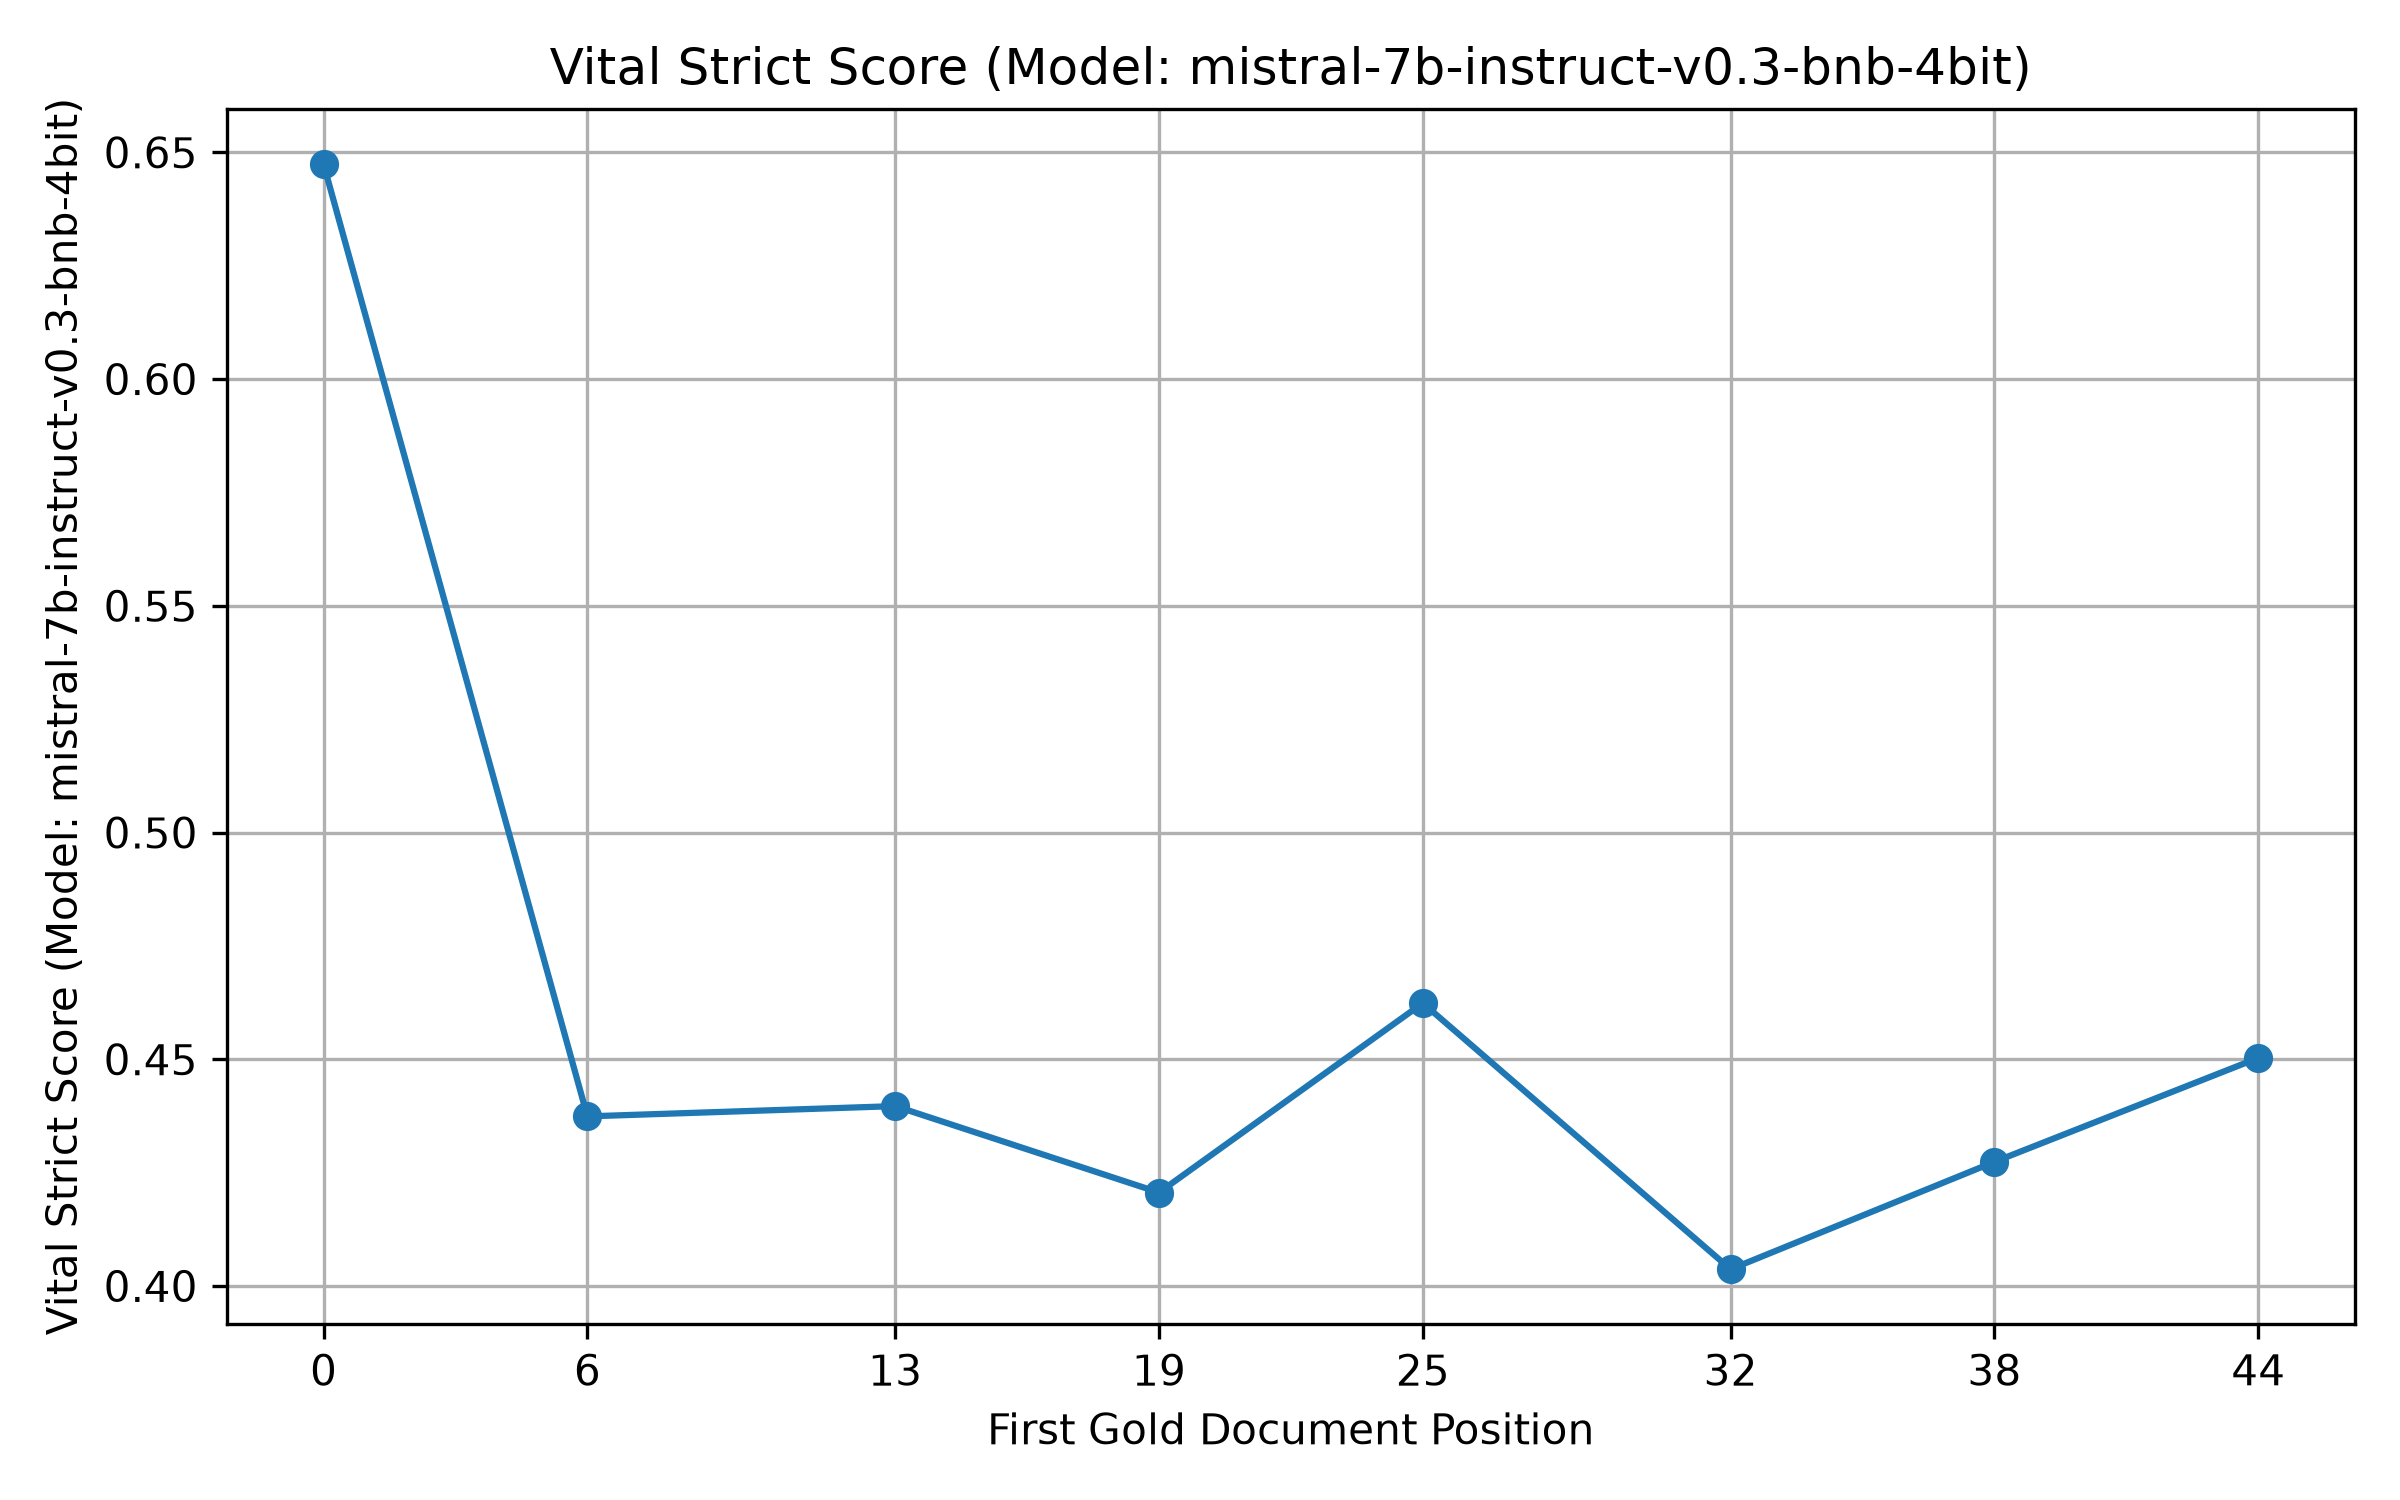
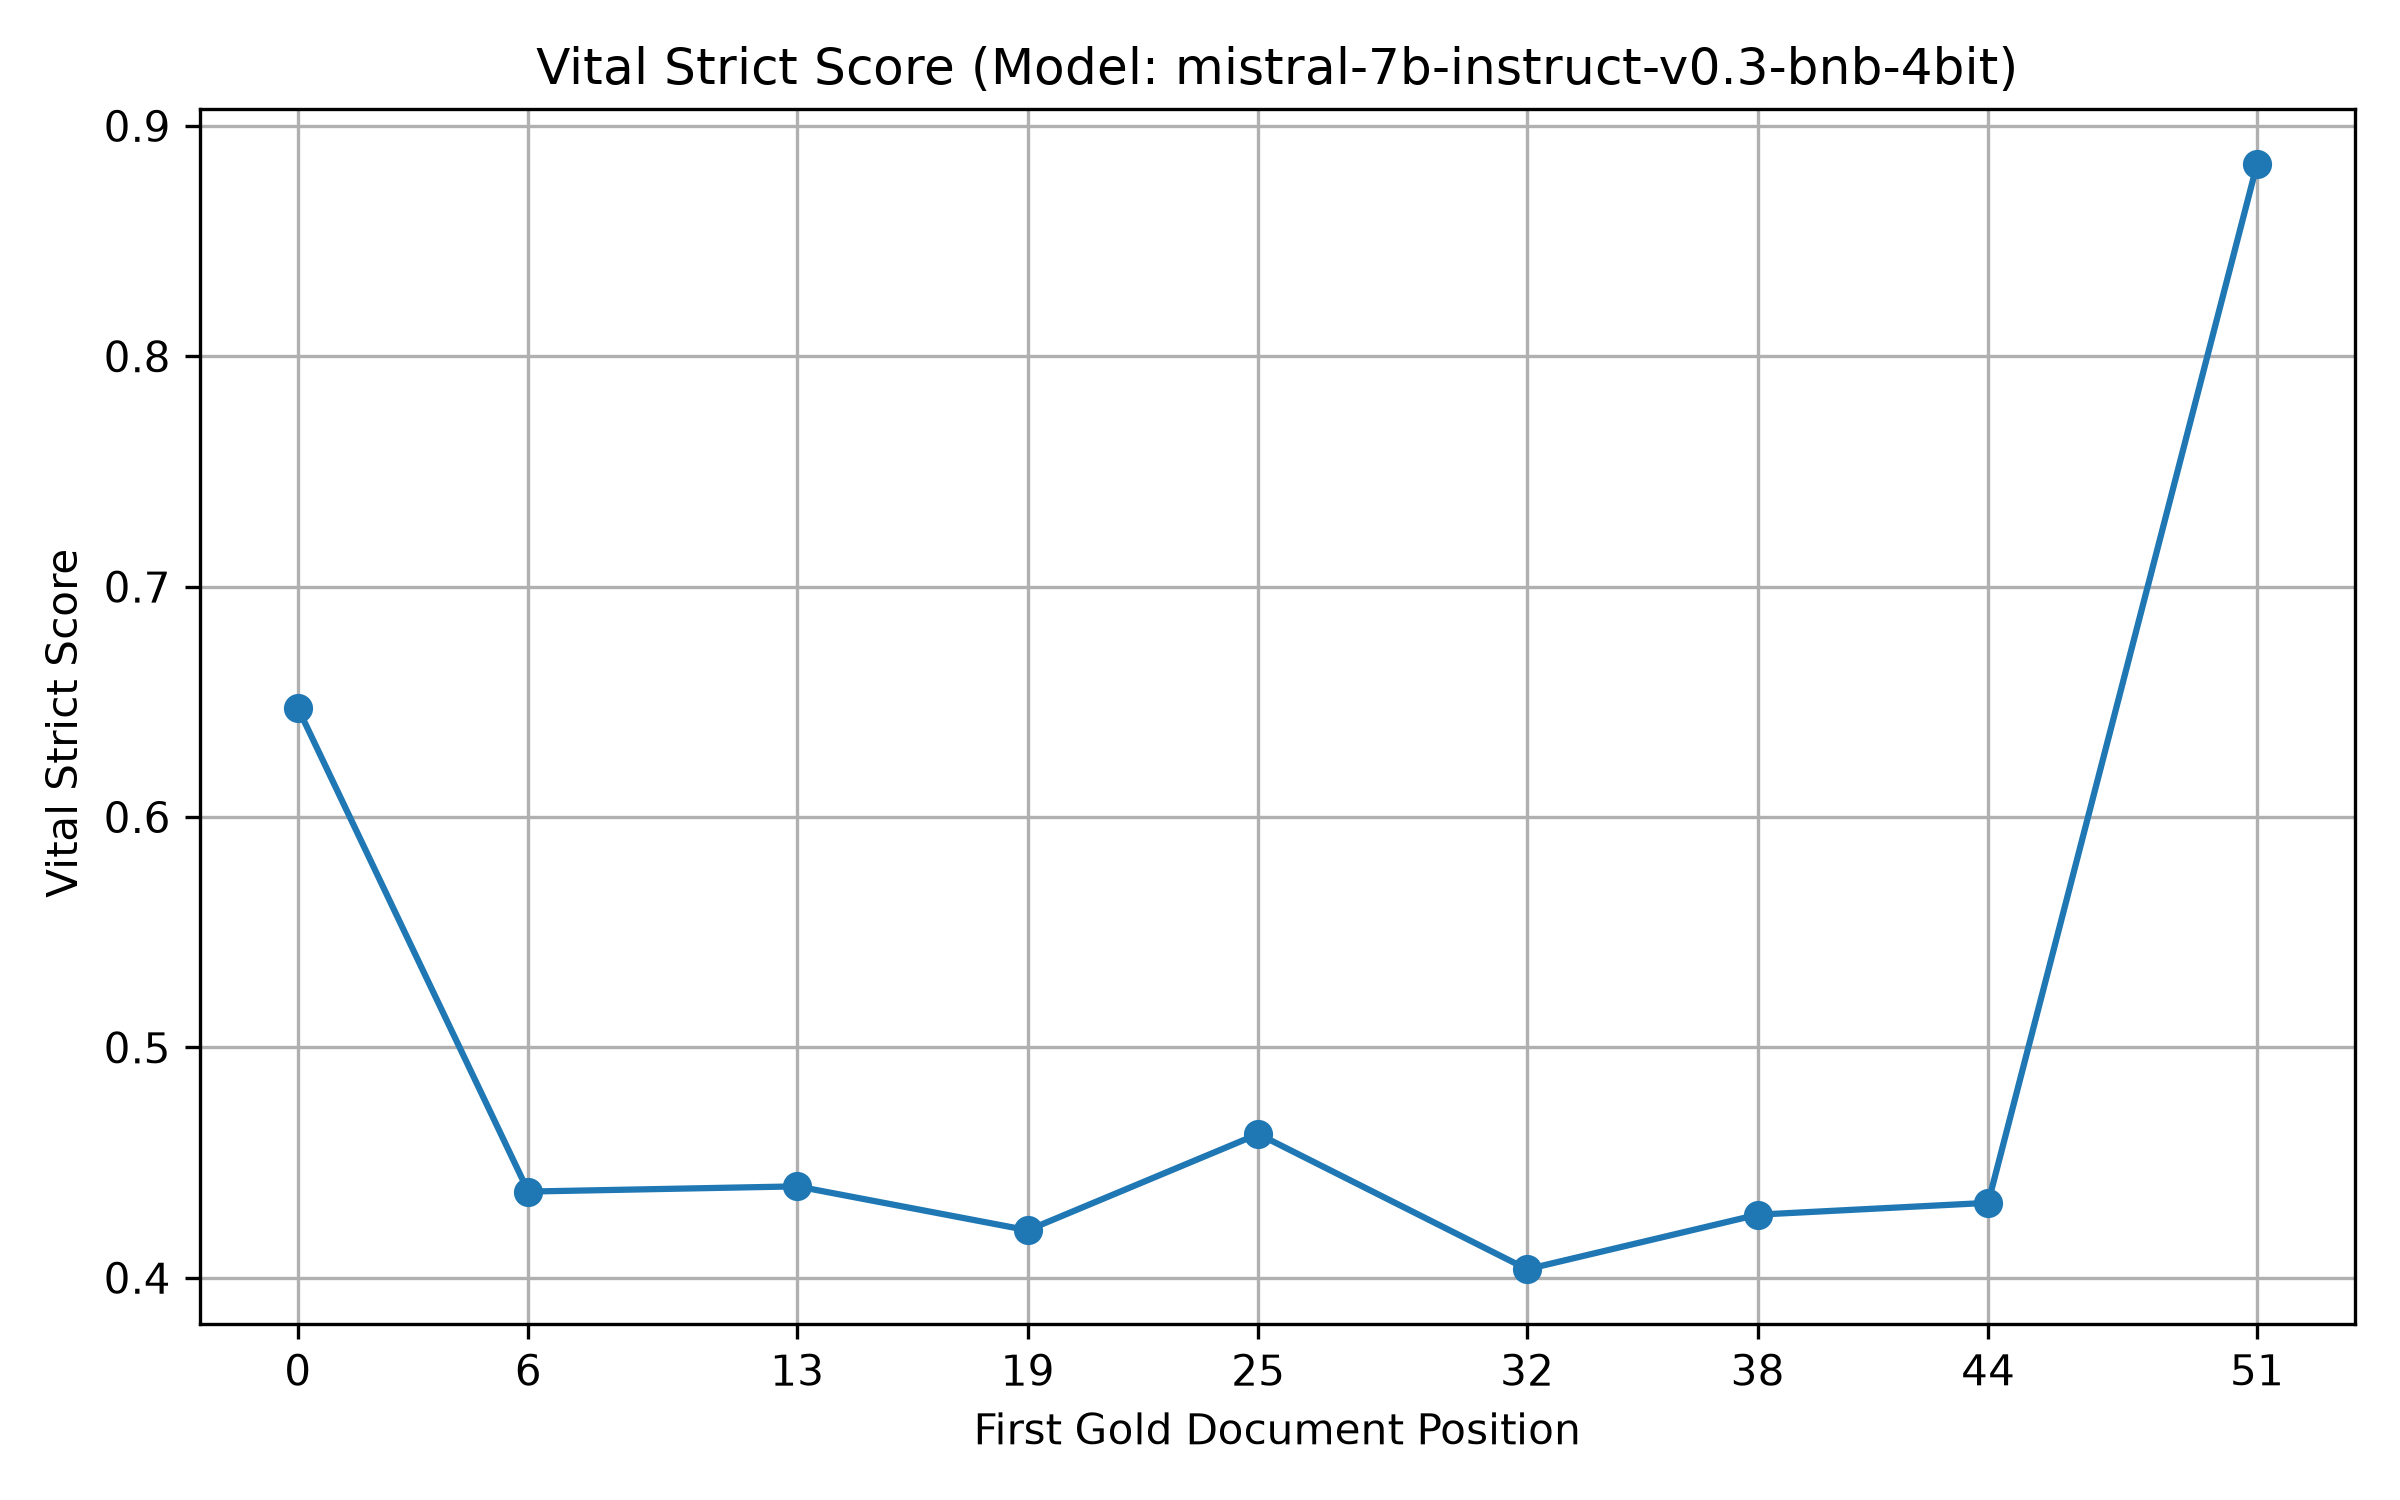
starting corrections

diff --git a/TREC-RAG_2024_Analysis/Discriminator_and_Noise/Discriminator/Correctness_Analysis/main1.py b/TREC-RAG_2024_Analysis/Discriminator_and_Noise/Discriminator/Correctness_Analysis/main1.py
@@ -1,0 +1,120 @@
+from transformers import AutoTokenizer, AutoModelForCausalLM
+import json
+import gzip
+import torch
+import re
+import os
+from tqdm import tqdm
+
+import warnings
+warnings.filterwarnings(
+    "ignore",
+    category=FutureWarning,
+    module="bitsandbytes"
+)
+
+import sys
+sys.path.insert(0,r'/home/irlab/sagnik/TREC-RAG_2024_Analysis/Discriminator_and_Noise/Discriminator/Correctness_Analysis/Generator')
+sys.path.insert(0,r'/home/irlab/sagnik/TREC-RAG_2024_Analysis/Discriminator_and_Noise/Discriminator/Correctness_Analysis/NuggetizeLLM')
+sys.path.insert(0,r'/home/irlab/sagnik/TREC-RAG_2024_Analysis/Discriminator_and_Noise/Discriminator/Correctness_Analysis/NuggetizeScoreLLM')
+sys.path.insert(0,r'/home/irlab/sagnik/TREC-RAG_2024_Analysis/Discriminator_and_Noise/Discriminator/Correctness_Analysis/NuggetizeAssignerLLM')
+sys.path.insert(0,r'/home/irlab/sagnik/TREC-RAG_2024_Analysis/Discriminator_and_Noise/Discriminator/Correctness_Analysis/Evaluation')
+
+from generator import llm_output_generator
+from NuggetizeLLM import NuggetizeLLM
+from NuggetizeScoreLLM import NuggetizeScoreLLM
+from NuggetizeAssignerLLM import NuggetizeAssignerLLM
+from evaluator import all_score, all_strict_score, vital_score, vital_strict_score, weighted_score, weighted_strict_score
+
+#####################
+with open(r'/home/irlab/sagnik/API_KEY','r') as f:
+    hf_token=f.read()
+
+retr_set_path=r'/home/irlab/sagnik/TREC-RAG_2024_Analysis/Discriminator_and_Noise/Discriminator/Data/generator_input_data_gold_fixed_3.jsonl'
+
+model_name="unsloth/mistral-7b-instruct-v0.3-bnb-4bit"
+model=AutoModelForCausalLM.from_pretrained(model_name,token=hf_token,attn_implementation='flash_attention_2')
+tokenizer=AutoTokenizer.from_pretrained(model_name,token=hf_token)
+
+length_set=[]
+
+with open(retr_set_path,'r') as f:
+    for i in f:
+        temp=json.loads(i)
+        length_set.append(temp)  
+
+
+context_length=len(length_set[0]['doc_discriminator'])+len(length_set[0]['doc_gold'])
+corpus_length=len(length_set)
+
+
+# ########################
+
+with open(r'/home/irlab/sagnik/TREC-RAG_2024_Analysis/Discriminator_and_Noise/Discriminator/Correctness_Analysis/misc/itr_index.json','r') as f:
+    itr=json.load(f)
+
+unified_itr=[]
+with open(r'/home/irlab/sagnik/TREC-RAG_2024_Analysis/Discriminator_and_Noise/Discriminator/Correctness_Analysis/misc/pipeline_error_log_mistral-7b-instruct-v0.3-bnb-4bit.jsonl'):
+    for i in f:
+        unified_itr(json.loads(i))
+
+unified_itr1
+for i in unified_itr:
+    unified_itr1_temp=[i['first_gold_doc_pos'],i['corpus_position']]
+    unified_itr1.append(unified_itr1_temp)
+
+# test_indices=[0]
+
+for i,j in tqdm(unified_itr1):
+
+    try:
+        output_text, query=llm_output_generator(i,j,model,tokenizer,retr_set_path)
+        output1=output_text
+
+        nugget_dict=NuggetizeLLM(j,model,tokenizer,retr_set_path)
+        output2=nugget_dict['NuggetizeLLM_output']
+
+        score_list, nugget_list, query1=NuggetizeScoreLLM(model,tokenizer,nugget_dict)
+        output3=score_list
+
+        assigner_list, nugget_list1, query2=NuggetizeAssignerLLM(model,tokenizer,nugget_dict,output_text)
+        output4=assigner_list
+
+    
+        ######## Eval
+
+        all_score_out=all_score(assigner_list)
+        all_strict_score_out=all_strict_score(assigner_list)
+
+        vital_score_out=vital_score(assigner_list,score_list)
+        vital_strict_score_out=vital_strict_score(assigner_list,score_list)
+
+        weighted_score_out=weighted_score(assigner_list,score_list)
+        weighted_strict_score_out=weighted_strict_score(assigner_list,score_list)
+
+        output5={'all_score':all_score_out,'all_strict_score':all_strict_score_out,'vital_score':vital_score_out,'vital_strict_score':vital_strict_score_out,'weighted_score':weighted_score_out,'weighted_strict_score':weighted_strict_score_out}
+
+        final_output={'model':model_name,'first_gold_doc_pos':i,'corpus_position':j,'query':query,'generator_output':output1,'nuggetizellm_output':output2,'nuggetizescorellm_output':output3,'nuggetizeassignerllm_output':output4,'scores':output5}
+
+
+        with open(fr"/home/irlab/sagnik/TREC-RAG_2024_Analysis/Discriminator_and_Noise/Discriminator/Correctness_Analysis/misc/pipeline_output_{model_name[model_name.index('/')+1:]}.jsonl", "a") as f:
+            f.write(json.dumps(final_output) + "\n")
+            f.flush()
+            os.fsync(f.fileno())
+
+
+    except KeyboardInterrupt:
+        
+        interrupted=True
+        raise
+        
+    except Exception as e:
+
+        error_data={'first_gold_doc_pos':i,'corpus_position':j,'error':str(e)}
+
+        with open(fr"/home/irlab/sagnik/TREC-RAG_2024_Analysis/Discriminator_and_Noise/Discriminator/Correctness_Analysis/misc/pipeline_error_log_{model_name[model_name.index('/')+1:]}_2nd.jsonl", "a") as f:
+            f.write(json.dumps(error_data) + "\n")
+            f.flush()
+            os.fsync(f.fileno())
+
+

diff --git a/TREC-RAG_2024_Analysis/Discriminator_and_Noise/Noise/Correctness_Analysis/main1.py b/TREC-RAG_2024_Analysis/Discriminator_and_Noise/Noise/Correctness_Analysis/main1.py
@@ -1,0 +1,120 @@
+from transformers import AutoTokenizer, AutoModelForCausalLM
+import json
+import gzip
+import torch
+import re
+import os
+from tqdm import tqdm
+
+import warnings
+warnings.filterwarnings(
+    "ignore",
+    category=FutureWarning,
+    module="bitsandbytes"
+)
+
+import sys
+sys.path.insert(0,r'/home/irlab/sagnik/TREC-RAG_2024_Analysis/Discriminator_and_Noise/Noise/Correctness_Analysis/Generator')
+sys.path.insert(0,r'/home/irlab/sagnik/TREC-RAG_2024_Analysis/Discriminator_and_Noise/Noise/Correctness_Analysis/NuggetizeLLM')
+sys.path.insert(0,r'/home/irlab/sagnik/TREC-RAG_2024_Analysis/Discriminator_and_Noise/Noise/Correctness_Analysis/NuggetizeScoreLLM')
+sys.path.insert(0,r'/home/irlab/sagnik/TREC-RAG_2024_Analysis/Discriminator_and_Noise/Noise/Correctness_Analysis/NuggetizeAssignerLLM')
+sys.path.insert(0,r'/home/irlab/sagnik/TREC-RAG_2024_Analysis/Discriminator_and_Noise/Noise/Correctness_Analysis/Evaluation')
+
+from generator import llm_output_generator
+from NuggetizeLLM import NuggetizeLLM
+from NuggetizeScoreLLM import NuggetizeScoreLLM
+from NuggetizeAssignerLLM import NuggetizeAssignerLLM
+from evaluator import all_score, all_strict_score, vital_score, vital_strict_score, weighted_score, weighted_strict_score
+
+#####################
+with open(r'/home/irlab/sagnik/API_KEY','r') as f:
+    hf_token=f.read()
+
+retr_set_path=r'/home/irlab/sagnik/TREC-RAG_2024_Analysis/Discriminator_and_Noise/Noise/Data/generator_input_data_gold_fixed_3.jsonl'
+
+model_name="unsloth/mistral-7b-instruct-v0.3-bnb-4bit"
+model=AutoModelForCausalLM.from_pretrained(model_name,token=hf_token,attn_implementation='flash_attention_2')
+tokenizer=AutoTokenizer.from_pretrained(model_name,token=hf_token)
+
+length_set=[]
+
+with open(retr_set_path,'r') as f:
+    for i in f:
+        temp=json.loads(i)
+        length_set.append(temp)  
+
+
+context_length=len(length_set[0]['doc_discriminator'])+len(length_set[0]['doc_gold'])
+corpus_length=len(length_set)
+
+
+# ########################
+
+with open(r'/home/irlab/sagnik/TREC-RAG_2024_Analysis/Discriminator_and_Noise/Noise/Correctness_Analysis/misc/itr_index.json','r') as f:
+    itr=json.load(f)
+
+unified_itr=[]
+with open(r'/home/irlab/sagnik/TREC-RAG_2024_Analysis/Discriminator_and_Noise/Noise/Correctness_Analysis/misc/pipeline_error_log_mistral-7b-instruct-v0.3-bnb-4bit.jsonl'):
+    for i in f:
+        unified_itr(json.loads(i))
+
+unified_itr1
+for i in unified_itr:
+    unified_itr1_temp=[i['first_gold_doc_pos'],i['corpus_position']]
+    unified_itr1.append(unified_itr1_temp)
+
+# test_indices=[0]
+
+for i,j in tqdm(unified_itr1)
+
+    try:
+        output_text, query=llm_output_generator(i,j,model,tokenizer,retr_set_path)
+        output1=output_text
+
+        nugget_dict=NuggetizeLLM(j,model,tokenizer,retr_set_path)
+        output2=nugget_dict['NuggetizeLLM_output']
+
+        score_list, nugget_list, query1=NuggetizeScoreLLM(model,tokenizer,nugget_dict)
+        output3=score_list
+
+        assigner_list, nugget_list1, query2=NuggetizeAssignerLLM(model,tokenizer,nugget_dict,output_text)
+        output4=assigner_list
+
+    
+        ######## Eval
+
+        all_score_out=all_score(assigner_list)
+        all_strict_score_out=all_strict_score(assigner_list)
+
+        vital_score_out=vital_score(assigner_list,score_list)
+        vital_strict_score_out=vital_strict_score(assigner_list,score_list)
+
+        weighted_score_out=weighted_score(assigner_list,score_list)
+        weighted_strict_score_out=weighted_strict_score(assigner_list,score_list)
+
+        output5={'all_score':all_score_out,'all_strict_score':all_strict_score_out,'vital_score':vital_score_out,'vital_strict_score':vital_strict_score_out,'weighted_score':weighted_score_out,'weighted_strict_score':weighted_strict_score_out}
+
+        final_output={'model':model_name,'first_gold_doc_pos':i,'corpus_position':j,'query':query,'generator_output':output1,'nuggetizellm_output':output2,'nuggetizescorellm_output':output3,'nuggetizeassignerllm_output':output4,'scores':output5}
+
+
+        with open(fr"/home/irlab/sagnik/TREC-RAG_2024_Analysis/Discriminator_and_Noise/Noise/Correctness_Analysis/misc/pipeline_output_{model_name[model_name.index('/')+1:]}.jsonl", "a") as f:
+            f.write(json.dumps(final_output) + "\n")
+            f.flush()
+            os.fsync(f.fileno())
+
+
+    except KeyboardInterrupt:
+        
+        interrupted=True
+        raise
+        
+    except Exception as e:
+
+        error_data={'first_gold_doc_pos':i,'corpus_position':j,'error':str(e)}
+
+        with open(fr"/home/irlab/sagnik/TREC-RAG_2024_Analysis/Discriminator_and_Noise/Noise/Correctness_Analysis/misc/pipeline_error_log_{model_name[model_name.index('/')+1:]}_2nd.jsonl", "a") as f:
+            f.write(json.dumps(error_data) + "\n")
+            f.flush()
+            os.fsync(f.fileno())
+
+

diff --git a/TREC-RAG_2024_Analysis/Discriminator_and_Noise/Discriminator/Correctness_Analysis/NuggetizeLLM/NuggetizeLLM.py b/TREC-RAG_2024_Analysis/Discriminator_and_Noise/Discriminator/Correctness_Analysis/NuggetizeLLM/NuggetizeLLM.py
@@ -27,6 +27,8 @@ def split_glued_nuggets(raw):
     return parts
 
 
+
+
 def get_nugget_list(nugget_list):
 
     raw_output = nugget_list
@@ -39,6 +41,8 @@ def get_nugget_list(nugget_list):
 
     if isinstance(raw_output, str):
         return split_glued_nuggets(raw_output)
+
+
 
 def NuggetizeLLM(corpus_lookup_index,model,tokenizer,retr_set_path):
 

diff --git a/TREC-RAG_2024_Analysis/Discriminator_and_Noise/Discriminator/Correctness_Analysis/plot.py b/TREC-RAG_2024_Analysis/Discriminator_and_Noise/Discriminator/Correctness_Analysis/plot.py
@@ -69,7 +69,7 @@ for title, scores in plots:
     plt.plot(gold_pos, scores, marker='o')
     plt.title(title)
     plt.xlabel("First Gold Document Position")
-    plt.ylabel(title)
+    plt.ylabel(title.replace(f'(Model: {model_name})',''))
     plt.xticks(gold_pos)
     plt.grid(True)
     plt.tight_layout()

diff --git a/TREC-RAG_2024_Analysis/Discriminator_and_Noise/Noise/Correctness_Analysis/plot.py b/TREC-RAG_2024_Analysis/Discriminator_and_Noise/Noise/Correctness_Analysis/plot.py
@@ -69,7 +69,7 @@ for title, scores in plots:
     plt.plot(gold_pos, scores, marker='o')
     plt.title(title)
     plt.xlabel("First Gold Document Position")
-    plt.ylabel(title)
+    plt.ylabel(title.replace(f'(Model: {model_name})',''))
     plt.xticks(gold_pos)
     plt.grid(True)
     plt.tight_layout()
